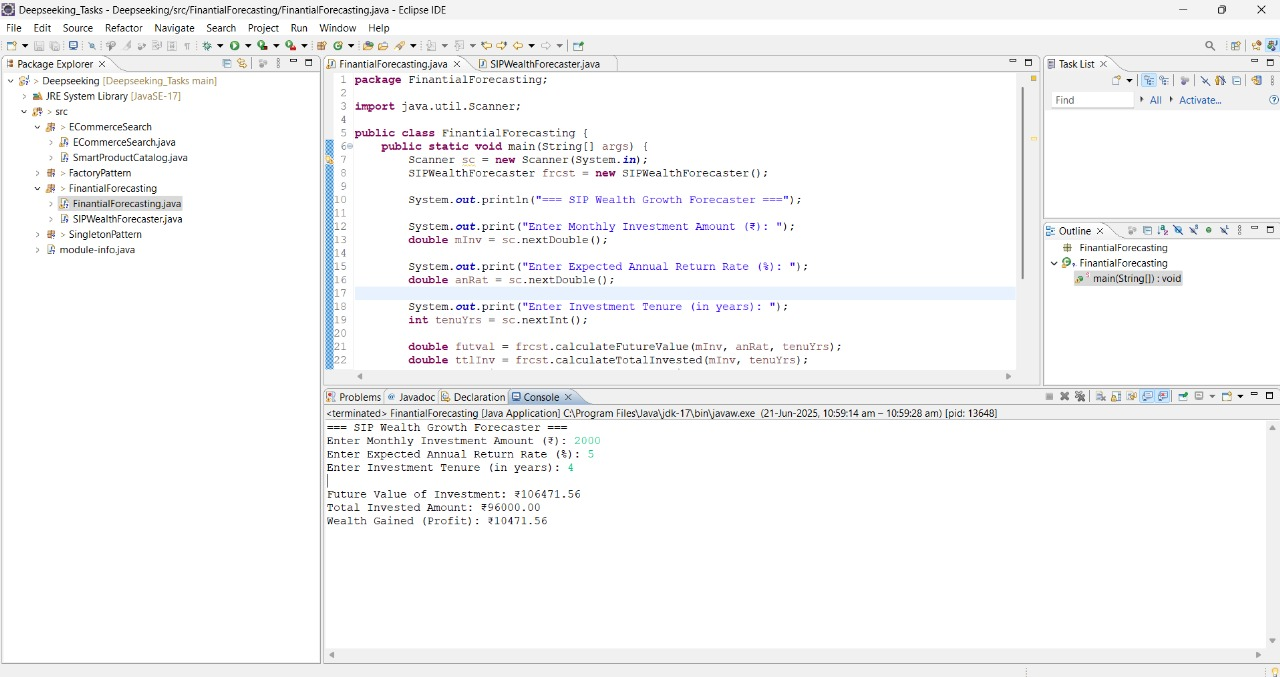
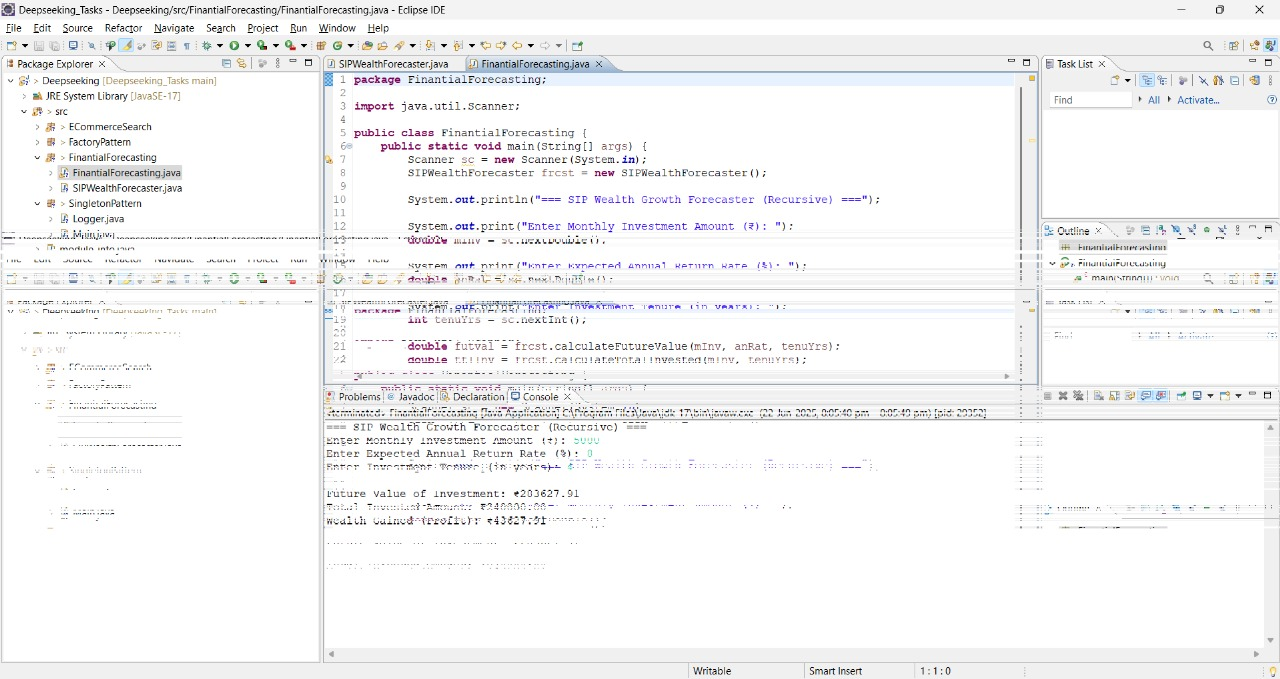
Week-1 Solutions ReUpdate

diff --git a/Week-1/financialForecasting/FinantialForecasting.java b/Week-1/financialForecasting/FinantialForecasting.java
@@ -7,7 +7,7 @@ public class FinantialForecasting {
         Scanner sc = new Scanner(System.in);
         SIPWealthForecaster frcst = new SIPWealthForecaster();
 
-        System.out.println("=== SIP Wealth Growth Forecaster ===");
+        System.out.println("=== SIP Wealth Growth Forecaster (Recursive) ===");
 
         System.out.print("Enter Monthly Investment Amount (₹): ");
         double mInv = sc.nextDouble();
@@ -25,6 +25,5 @@ public class FinantialForecasting {
         System.out.printf("\nFuture Value of Investment: ₹%.2f", futval);
         System.out.printf("\nTotal Invested Amount: ₹%.2f", ttlInv);
         System.out.printf("\nWealth Gained (Profit): ₹%.2f\n", wltGain);
-
     }
 }

diff --git a/Week-1/financialForecasting/SIPWealthForecaster.java b/Week-1/financialForecasting/SIPWealthForecaster.java
@@ -5,8 +5,14 @@ public class SIPWealthForecaster {
     public double calculateFutureValue(double mInv, double anRat, int tenuYrs) {
         double mR = anRat / 12 / 100;
         int totMon = tenuYrs * 12;
+        return calculateRecursive(mInv, mR, totMon);
+    }
 
-        return mInv * (Math.pow(1 + mR, totMon) - 1) * (1 + mR) / mR;
+    private double calculateRecursive(double mInv, double mR, int months) {
+        if (months == 0) {
+            return 0;
+        }
+        return (calculateRecursive(mInv, mR, months - 1) + mInv) * (1 + mR);
     }
 
     public double calculateTotalInvested(double mInv, int tenuYrs) {
